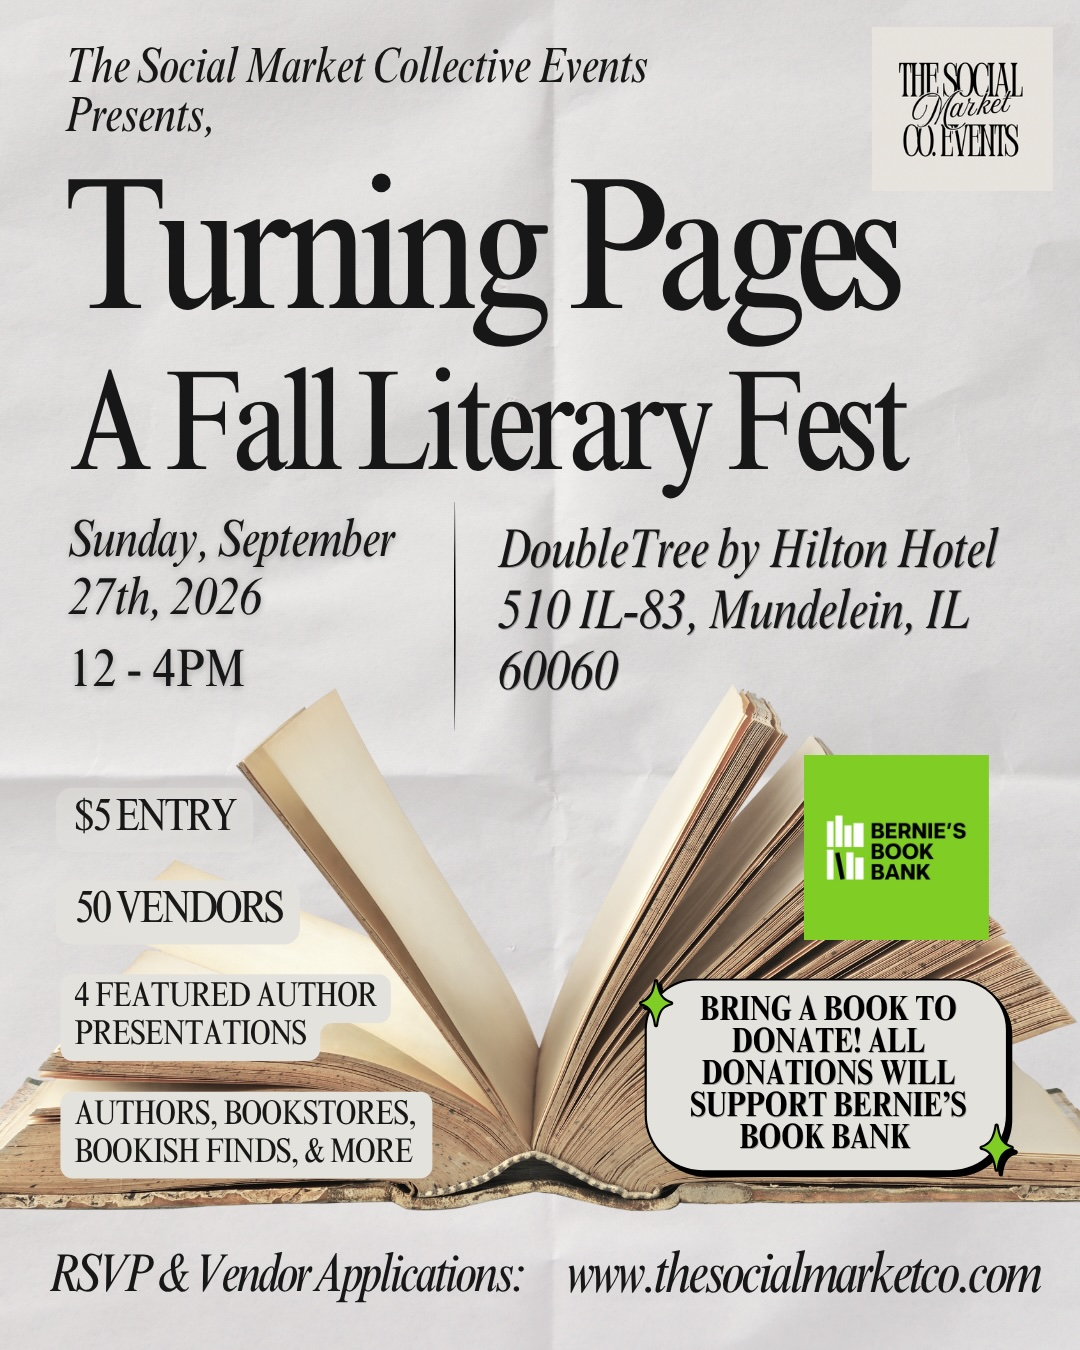
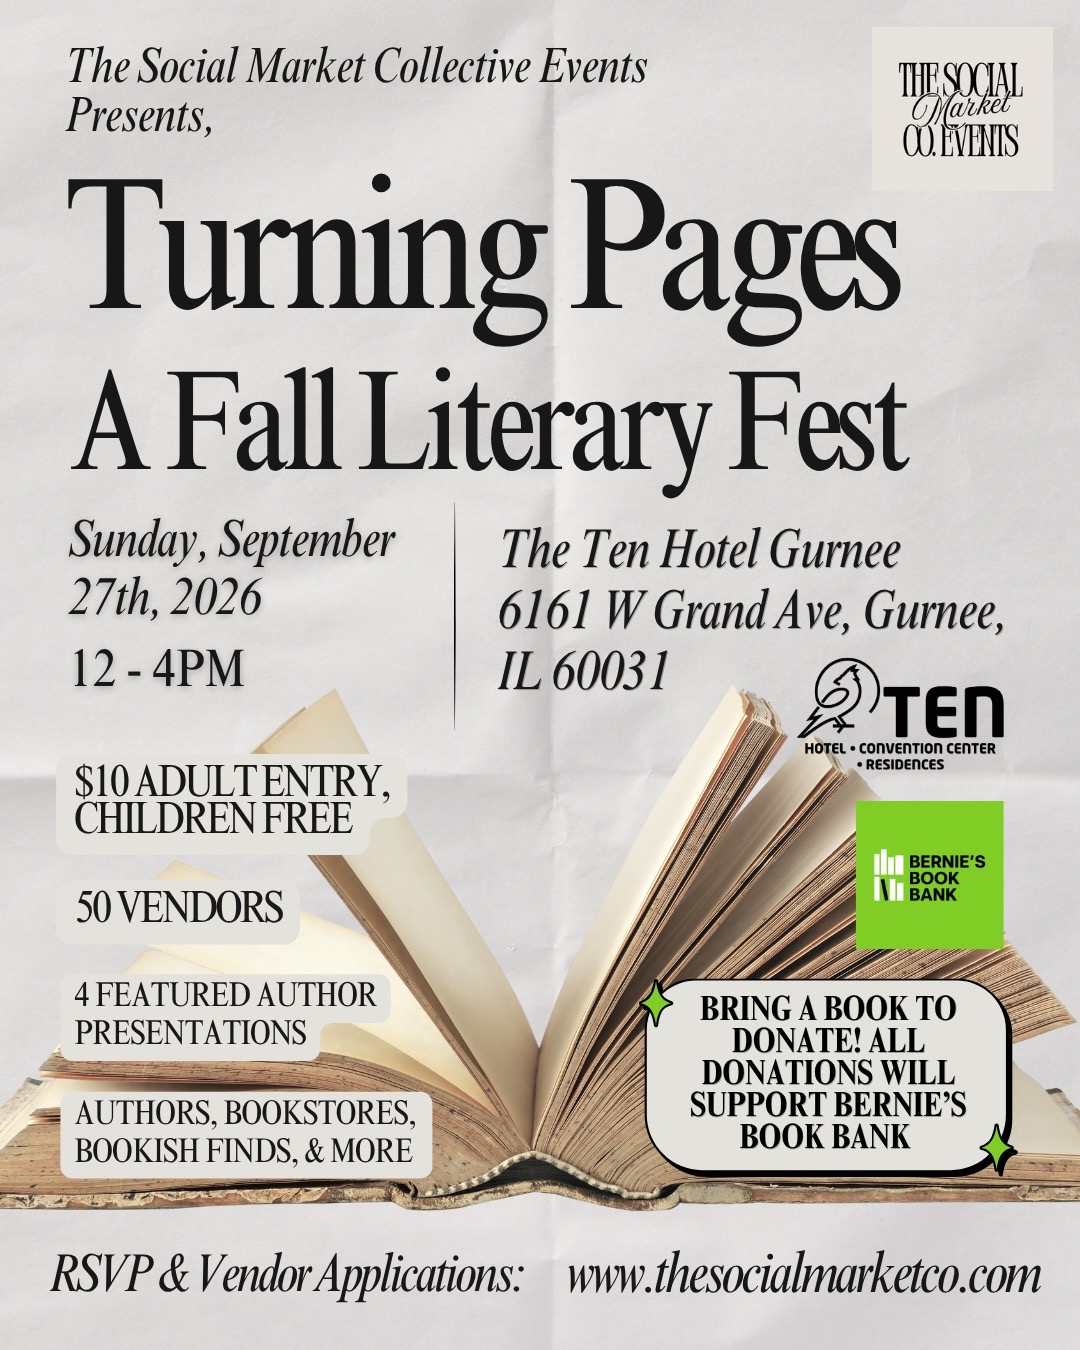
Update Fall Into Wellness Expo and Turning Pages flyers; rename Fall event

Changed region(s): [[0.4583, 0.3733, 0.9472, 0.7156], [0.0611, 0.56, 0.3667, 0.6533]]

diff --git a/events.html b/events.html
@@ -191,10 +191,10 @@
           <!-- Fall Into Wellness — August 16, 2026 -->
           <div class="event-card">
             <div class="event-flyer">
-              <img src="images/event-flyers/fall-into-wellness.jpg" alt="Fall Into Wellness: A Retreat-Inspired Market Experience">
+              <img src="images/event-flyers/fall-into-wellness.jpg" alt="Fall Into Wellness Expo">
             </div>
             <div class="event-info">
-              <h2 class="event-title">Fall Into Wellness</h2>
+              <h2 class="event-title">Fall Into Wellness Expo</h2>
               <p class="event-date">Sunday, August 16, 2026 · 12–4PM · DoubleTree by Hilton, Mundelein IL</p>
               <a href="https://www.facebook.com/share/18cFvCNzzz/?mibextid=wwXIfr" target="_blank" rel="noopener" class="event-btn">RSVP</a>
             </div>

diff --git a/vendor-signup.html b/vendor-signup.html
@@ -141,10 +141,10 @@
         <!-- Fall Into Wellness — August 16, 2026 -->
         <div class="event-card">
           <div class="event-flyer">
-            <img src="images/event-flyers/fall-into-wellness.jpg" alt="Fall Into Wellness: A Retreat-Inspired Market Experience">
+            <img src="images/event-flyers/fall-into-wellness.jpg" alt="Fall Into Wellness Expo">
           </div>
           <div class="event-info">
-            <h2 class="event-title">Fall Into Wellness</h2>
+            <h2 class="event-title">Fall Into Wellness Expo</h2>
             <p class="event-date">Sunday, August 16, 2026 · 12–4PM · DoubleTree by Hilton, Mundelein IL</p>
             <a href="https://docs.google.com/forms/d/e/1FAIpQLSecK9okDmr3UmjySn2nFrbTEb9KcvoMP6K-oR75jV9LRoOgwg/viewform" target="_blank" rel="noopener" class="event-btn">Apply</a>
           </div>